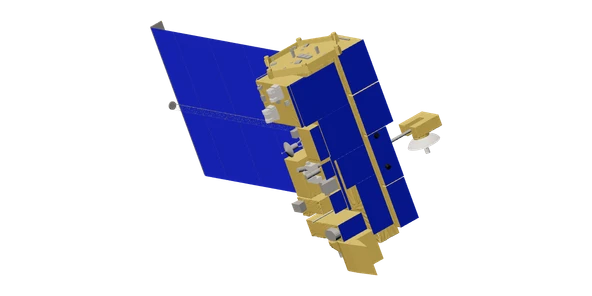
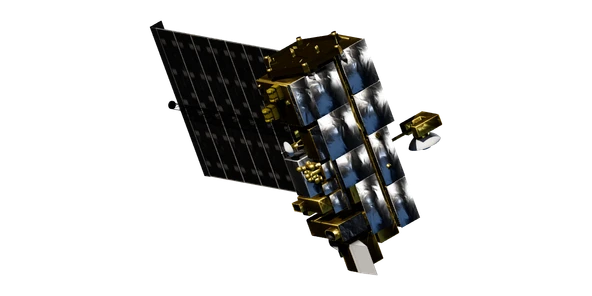
fix(facilities): render Terra from NASA Eyes, whose model has its textures

Changed region(s): [[0.2432, 0.0608, 0.7601, 0.9426]]

diff --git a/docs/facility-thumbnails.md b/docs/facility-thumbnails.md
@@ -80,6 +80,13 @@ the bounded reader retains all four meshes, original JPEG textures, UVs,
 transforms and material values. Both Voyagers use the same reviewed 3D pose,
 with the dish aimed inward and every boom retained.
 
+Terra comes from NASA Eyes on the Earth, not NASA 3D Resources. The NASA 3D
+Resources GLB names its two textures by a Windows path outside the file, and
+the repository does not contain them; NASA's own preview render shows the same
+untextured flat blue. The Eyes model carries its colour, normal and
+metal/roughness maps. Eyes points this model's −Y axis at Earth, and the pose
+uses that axis.
+
 The fixed lighting recipe is in
 [`tools/facility-renders/render.mts`](../tools/facility-renders/render.mts).
 The library records preparation code hashes and browser/package versions.
